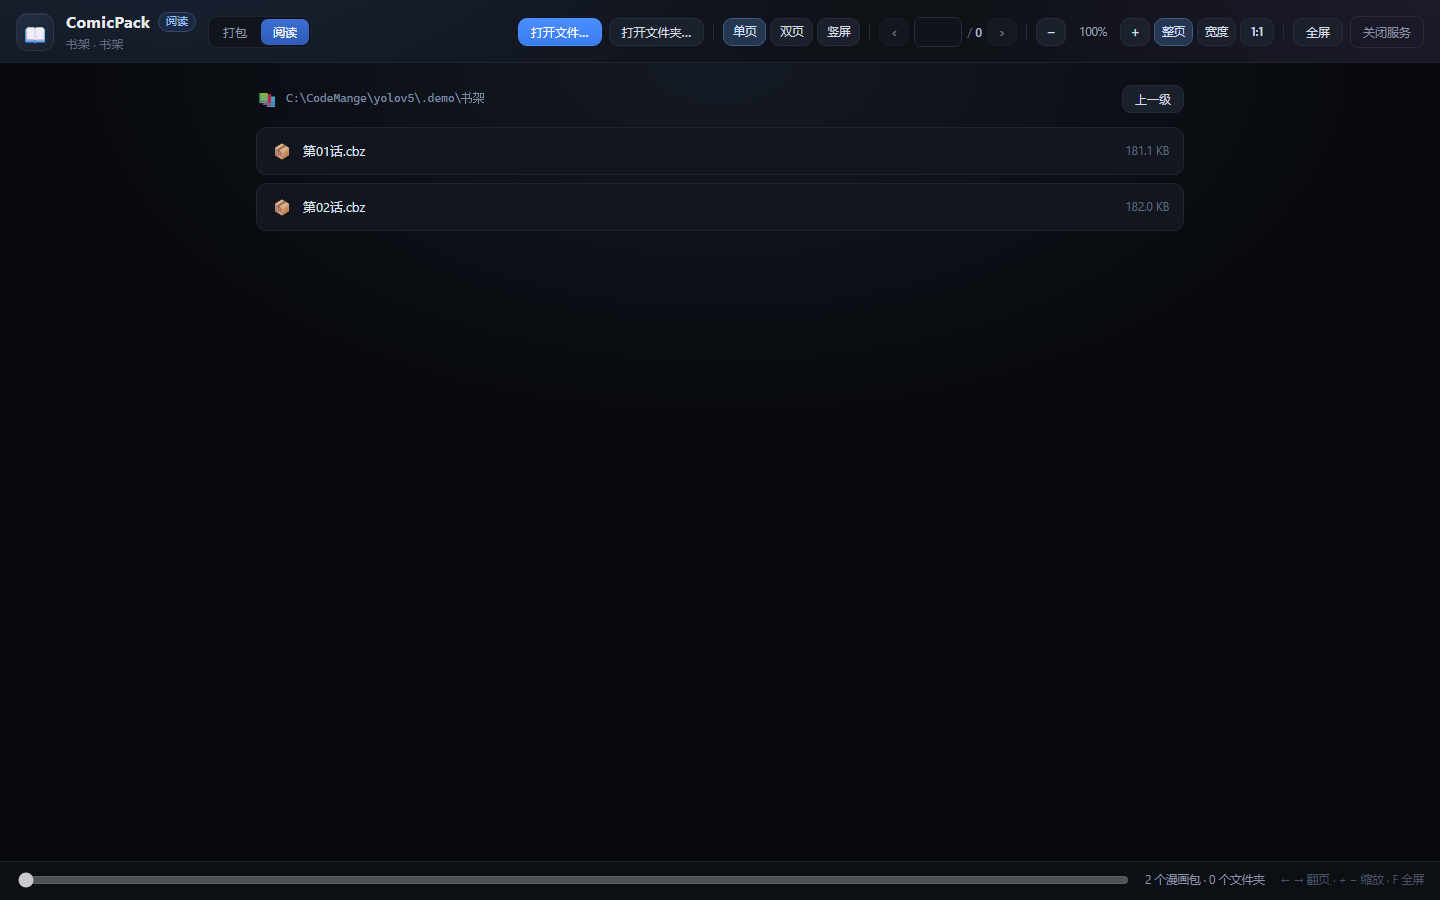
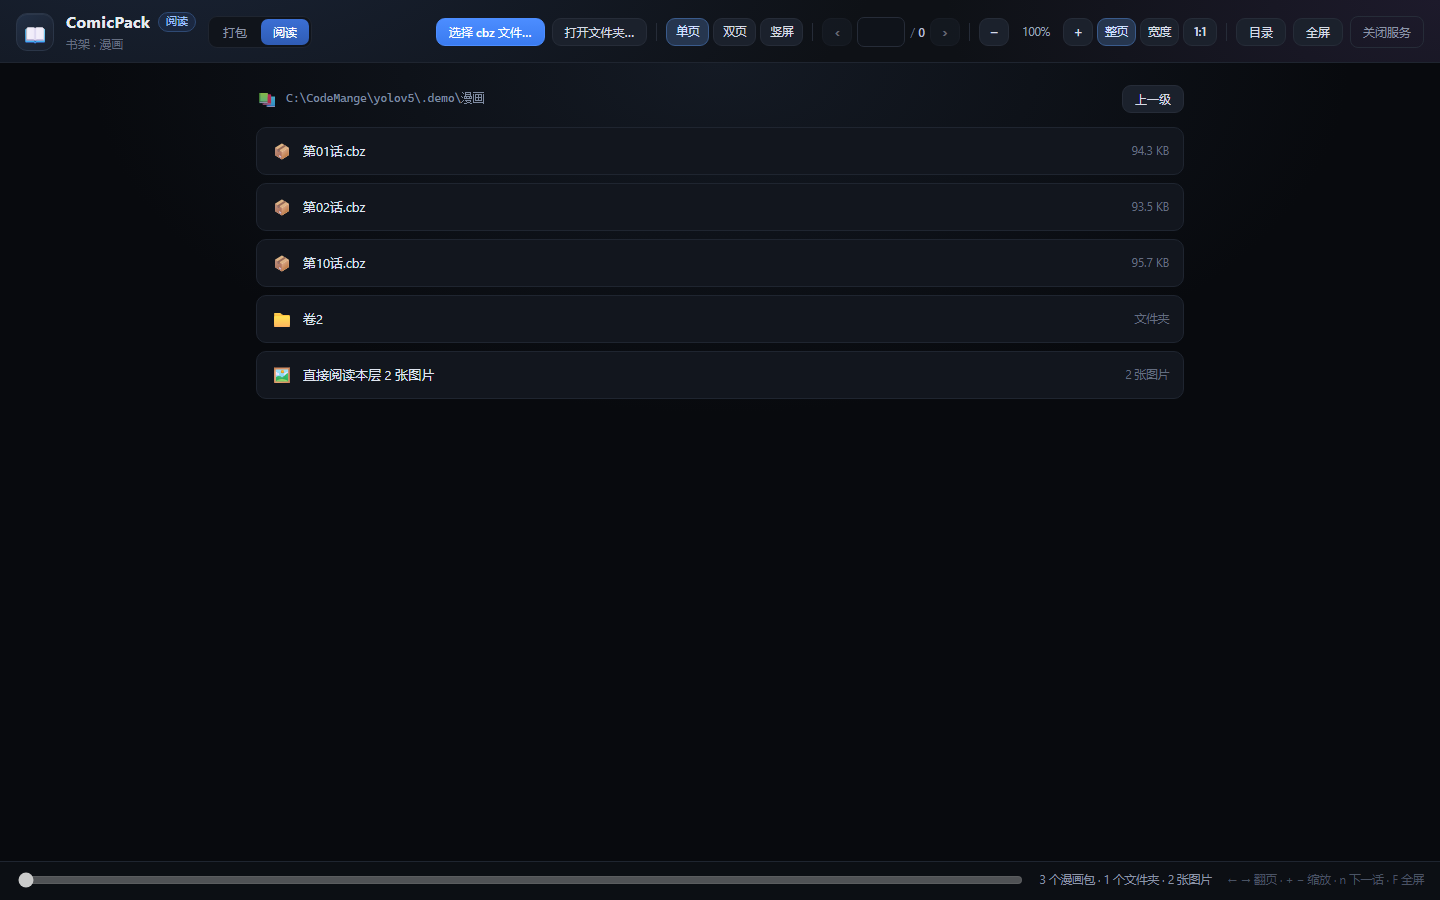
Rename the open button and list folders + cbz when opening a folder
- reader UI: the toolbar/empty-state button "打开文件…" is now "选择 cbz 文件…"
- opening a folder now lists its subfolders and CBZ/ZIP files (plus a "read the
  images in this folder" entry when loose images exist) instead of jumping
  into the first archive; a folder with a single archive still opens directly
- opening still returns sibling chapters, so the sidebar and 下一话 keep working
- tests: folder listing, mixed folder image entry, prefer_images

diff --git a/static/reader.js b/static/reader.js
@@ -83,10 +83,10 @@ async function openDialog(mode) {
   }
 }
 
-async function openPath(path) {
+async function openPath(path, preferImages) {
   setBusy(true, true);
   try {
-    const r = await post("/api/reader/open", { path });
+    const r = await post("/api/reader/open", { path, prefer_images: !!preferImages });
     if (!r.ok) throw new Error(r.error || "打开失败");
     if (r.kind === "library") {
       showLibrary(r);
@@ -169,7 +169,9 @@ function showLibrary(r) {
   $("#doc-count").classList.add("hidden");
   $("#page-total").textContent = "0";
   $("#page-input").value = "";
-  $("#page-meta").textContent = `${r.archive_count} 个漫画包 · ${r.folder_count} 个文件夹`;
+  let libMeta = `${r.archive_count} 个漫画包 · ${r.folder_count} 个文件夹`;
+  if (r.image_count) libMeta += ` · ${r.image_count} 张图片`;
+  $("#page-meta").textContent = libMeta;
   history.replaceState(null, "", "/reader?path=" + encodeURIComponent(r.path));
 
   $("#lib-path").textContent = r.path;
@@ -188,7 +190,7 @@ function showLibrary(r) {
     const li = document.createElement("li");
     const kind = document.createElement("span");
     kind.className = "lib-kind";
-    kind.textContent = item.kind === "archive" ? "📦" : "📁";
+    kind.textContent = item.kind === "archive" ? "📦" : (item.kind === "images" ? "🖼" : "📁");
 
     const name = document.createElement("span");
     name.className = "lib-name";
@@ -196,13 +198,13 @@ function showLibrary(r) {
 
     const meta = document.createElement("span");
     meta.className = "lib-meta";
-    meta.textContent = item.kind === "archive"
-      ? (item.bytes_text || humanSize(item.size))
-      : "文件夹";
+    if (item.kind === "archive") meta.textContent = item.bytes_text || humanSize(item.size);
+    else if (item.kind === "images") meta.textContent = `${item.count} 张图片`;
+    else meta.textContent = "文件夹";
 
     li.append(kind, name, meta);
     li.title = item.path;
-    li.addEventListener("click", () => openPath(item.path));
+    li.addEventListener("click", () => openPath(item.path, item.kind === "images"));
     list.appendChild(li);
   });
 }

diff --git a/static/reader.html b/static/reader.html
@@ -28,7 +28,7 @@
   </nav>
 
   <div class="tools">
-    <button id="btn-open" class="btn btn-primary btn-sm">打开文件…</button>
+    <button id="btn-open" class="btn btn-primary btn-sm">选择 cbz 文件…</button>
     <button id="btn-open-dir" class="btn btn-sm">打开文件夹…</button>
 
     <span class="sep"></span>
@@ -72,10 +72,10 @@
   <div id="empty" class="reader-empty">
     <div class="empty-icon">📖</div>
     <h2>打开一个漫画包开始阅读</h2>
-    <p>支持 <b>.cbz</b> / <b>.zip</b>（CBZ 就是改了扩展名的 zip），也可以直接打开一个图片文件夹——
-       文件夹里放的是漫画包的话，会列出这些包让你挑。</p>
+    <p>「选择 cbz 文件」直接打开一本；「打开文件夹」会列出里面的<b>子文件夹</b>和 <b>.cbz / .zip</b>，
+       点哪本读哪本，同一文件夹里的其它包会出现在右侧「目录」里，方便连续看下一话。</p>
     <div class="empty-actions">
-      <button id="btn-empty-open" class="btn btn-primary">打开文件…</button>
+      <button id="btn-empty-open" class="btn btn-primary">选择 cbz 文件…</button>
       <button id="btn-empty-dir" class="btn">打开文件夹…</button>
     </div>
     <p class="empty-hint">快捷键：← → 翻页 · + − 缩放 · 0 复位 · F 全屏 · O 打开</p>

diff --git a/tests/test_core.py b/tests/test_core.py
@@ -189,8 +189,8 @@ class ReaderTest(unittest.TestCase):
             self.assertEqual((data, ctype), (JPG, "image/jpeg"))
             reader.close(info["id"])
 
-    def test_folder_with_archives_opens_first_chapter(self):
-        """选一个装有多本 cbz 的文件夹：直接打开第一本，并把同目录的包作为章节返回。"""
+    def test_folder_with_archives_lists_them(self):
+        """选一个装有多本 cbz 的文件夹：列成书架，文件夹和包都在列表里。"""
         with workdir() as tmp:
             for name in ("第01话", "第02话", "第10话"):
                 src = os.path.join(tmp, name)
@@ -202,13 +202,14 @@ class ReaderTest(unittest.TestCase):
 
             info = reader.open_path(tmp)
             self.assertTrue(info["ok"], info)
-            self.assertEqual(info["kind"], "zip")
-            self.assertTrue(info["path"].endswith("第01话.cbz"), info["path"])
-            self.assertEqual(info["chapter_count"], 3)
-            self.assertEqual(info["chapter_index"], 0)
-            self.assertEqual([c["name"] for c in info["chapters"]],
-                             ["第01话.cbz", "第02话.cbz", "第10话.cbz"])
-            reader.close(info["id"])
+            self.assertEqual(info["kind"], "library")
+            self.assertEqual(info["archive_count"], 3)
+            self.assertEqual(info["folder_count"], 3)      # 打包后的源文件夹也在
+            self.assertEqual([i["name"] for i in info["items"]],
+                             ["第01话.cbz", "第02话.cbz", "第10话.cbz",
+                              "第01话", "第02话", "第10话"])
+            self.assertEqual([i["kind"] for i in info["items"]],
+                             ["archive", "archive", "archive", "folder", "folder", "folder"])
 
     def test_chapters_sorted_and_indexed(self):
         with workdir() as tmp:
@@ -227,6 +228,35 @@ class ReaderTest(unittest.TestCase):
                              ["第1话.cbz", "第2话.cbz", "第10话.cbz"])
             self.assertEqual(info["chapter_index"], 1)
             reader.close(info["id"])
+
+    def test_mixed_folder_lists_images_entry(self):
+        """文件夹里同时有散图和 cbz：列表里既有包，也有“直接读本层图片”的入口。"""
+        with workdir() as tmp:
+            with open(os.path.join(tmp, "1.jpg"), "wb") as fh:
+                fh.write(JPG)
+            with open(os.path.join(tmp, "2.jpg"), "wb") as fh:
+                fh.write(JPG)
+            src = os.path.join(tmp, "书")
+            os.makedirs(src)
+            with open(os.path.join(src, "1.jpg"), "wb") as fh:
+                fh.write(JPG)
+            packer.pack(src, ["cbz"])
+            shutil.rmtree(src)
+
+            info = reader.open_path(tmp)
+            self.assertTrue(info["ok"], info)
+            self.assertEqual(info["kind"], "library")
+            self.assertEqual(info["image_count"], 2)
+            kinds = [i["kind"] for i in info["items"]]
+            self.assertEqual(kinds, ["archive", "images"])
+            self.assertEqual(info["items"][1]["count"], 2)
+
+            # 走“直接读本层图片”入口
+            pics = reader.open_path(tmp, prefer_images=True)
+            self.assertTrue(pics["ok"], pics)
+            self.assertEqual(pics["kind"], "folder")
+            self.assertEqual(pics["page_count"], 2)
+            reader.close(pics["id"])
 
     def test_folder_with_single_archive_opens_it(self):
         with workdir() as tmp:
@@ -400,17 +430,20 @@ class HttpTest(unittest.TestCase):
             packer.pack(src, ["cbz"])
             shutil.rmtree(src)
 
-        # 选这个文件夹：直接打开第一本，并返回同目录所有章节
+        # 选这个文件夹：列出所有包（不再自动打开第一本）
         res = self.post("/api/reader/open", {"path": lib})
         self.assertTrue(res["ok"], res)
-        self.assertEqual(res["kind"], "zip")
-        self.assertEqual(res["chapter_count"], 2)
-        self.assertEqual(res["chapter_index"], 0)
-        self.assertEqual([c["name"] for c in res["chapters"]],
+        self.assertEqual(res["kind"], "library")
+        self.assertEqual([i["name"] for i in res["items"]],
                          ["第01话.cbz", "第02话.cbz"])
 
-        # 打开第二本：章节序号跟着变，便于“下一话”
-        nxt = self.post("/api/reader/open", {"path": res["chapters"][1]["path"]})
+        # 点开其中一本：返回同目录章节，序号用于“下一话”
+        first = self.post("/api/reader/open", {"path": res["items"][0]["path"]})
+        self.assertEqual(first["kind"], "zip")
+        self.assertEqual(first["chapter_count"], 2)
+        self.assertEqual(first["chapter_index"], 0)
+
+        nxt = self.post("/api/reader/open", {"path": res["items"][1]["path"]})
         self.assertEqual(nxt["chapter_index"], 1)
         self.assertEqual(nxt["page_count"], 1)
         reader.close(nxt["id"])

diff --git a/reader.py b/reader.py
@@ -176,8 +176,21 @@ def _drop(sid: str):
             pass
 
 
-def open_path(raw_path: str) -> dict:
-    """打开漫画包或图片文件夹，返回阅读会话信息。"""
+def _folder_session(path: str, images: list) -> dict:
+    """把「一层散图」当一本漫画读。"""
+    pages = [{"name": im["name"], "size": im["size"]} for im in images]
+    sid = _remember({"kind": "folder", "path": path,
+                     "name": os.path.basename(path) or path,
+                     "pages": pages, "folder": path, "zf": None})
+    return _public(sid, pages, path, "folder")
+
+
+def open_path(raw_path: str, prefer_images: bool = False) -> dict:
+    """打开漫画包或文件夹。
+
+    文件夹：列成书架（子文件夹 + 漫画包 + 可选的“本层图片”入口），
+    让用户自己挑；只有一层散图（或 prefer_images=True）时才直接读图。
+    """
     path = packer.normalize_path(raw_path)
     if not path:
         return {"ok": False, "error": "请选择一个 CBZ / ZIP 文件"}
@@ -187,32 +200,43 @@ def open_path(raw_path: str) -> dict:
         except ReaderError as exc:
             return {"ok": False, "error": str(exc)}
 
-        # 文件夹里有漫画包：直接打开第一本，同目录的其它包作为章节返回
-        if shelf["archives"]:
-            return open_path(shelf["archives"][0]["path"])
-
         info = packer.scan(path)
-        if not info.get("ok"):
-            return {"ok": False, "error": info.get("error") or "无法读取文件夹"}
-        if info["images"]:
-            pages = [{"name": im["name"], "size": im["size"]} for im in info["images"]]
-            sid = _remember({"kind": "folder", "path": path,
-                             "name": os.path.basename(path) or path,
-                             "pages": pages, "folder": path, "zf": None})
-            return _public(sid, pages, path, "folder")
+        images = info["images"] if info.get("ok") else []
 
-        # 只有子文件夹：列成书架继续往下找
-        if shelf["folders"]:
+        if prefer_images and images:
+            return _folder_session(path, images)
+
+        archives = shelf["archives"]
+        folders = shelf["folders"]
+
+        # 只有一个包、别的什么都没有：直接打开，省一次点击
+        if len(archives) == 1 and not folders and not images:
+            return open_path(archives[0]["path"])
+
+        items = list(archives) + list(folders)
+        if images and (archives or folders):
+            items.append({
+                "kind": "images",
+                "name": f"直接阅读本层 {len(images)} 张图片",
+                "path": path,
+                "count": len(images),
+            })
+
+        if items:
             return {
                 "ok": True,
                 "kind": "library",
                 "path": path,
                 "name": os.path.basename(path.rstrip("\\/")) or path,
                 "parent": os.path.dirname(path.rstrip("\\/")),
-                "items": shelf["folders"],
-                "archive_count": 0,
-                "folder_count": len(shelf["folders"]),
+                "items": items,
+                "archive_count": len(archives),
+                "folder_count": len(folders),
+                "image_count": len(images),
             }
+
+        if images:
+            return _folder_session(path, images)
         return {"ok": False, "error": "这个文件夹里没有图片，也没有 CBZ / ZIP 漫画包"}
 
     if not os.path.isfile(path):

diff --git a/app.py b/app.py
@@ -296,7 +296,8 @@ class Handler(BaseHTTPRequestHandler):
                     return self._json(ask_folder(data.get("initial") or ""))
                 return self._json(ask_file(data.get("initial") or ""))
             if path == "/api/reader/open":
-                return self._json(reader.open_path(data.get("path") or ""))
+                return self._json(reader.open_path(data.get("path") or "",
+                                                   bool(data.get("prefer_images"))))
             if path.startswith("/api/reader/close/"):
                 sid = path.rsplit("/", 1)[-1]
                 return self._json({"ok": reader.close(sid)})

diff --git a/README.md b/README.md
@@ -40,11 +40,13 @@
 
 ## 阅读
 
-点「打开文件…」选一个 `.cbz` / `.zip`；点「打开文件夹…」时：
+- 顶栏 **「选择 cbz 文件…」**：直接打开一本 `.cbz` / `.zip`
+- 顶栏 **「打开文件夹…」**：列出这个文件夹里的**子文件夹**、`cbz/zip` 文件，
+  有散图时还会多一行「直接阅读本层 N 张图片」——点哪本读哪本
 
-- 文件夹里有**漫画包** → 自动打开第一本，并把同目录所有 `.cbz` / `.zip` 排进右侧「目录」
-- 文件夹里只有**散图** → 直接当一本来读
-- 文件夹里只有**子文件夹** → 列成书架，点进去继续找
+![书架](docs/ui-library.png)
+
+文件夹里放的全是散图、没有子文件夹时，会直接当一本来读，不再多一次点击。
 
 ### 章节目录 / 连续阅读
 
@@ -75,8 +77,6 @@
 - 自动记住每个文件的阅读进度与上次用的模式（存在浏览器 localStorage 里）
 - 只读：阅读过程不会改动、解压或重新压缩原文件
 
-![书架](docs/ui-library.png)
-
 ## 项目结构
 
 ```
@@ -106,7 +106,7 @@ docs/           界面截图
 | POST | `/api/cancel/<id>` | 取消打包并删除半成品 |
 | POST | `/api/reveal` | 在资源管理器中定位生成的文件 |
 | POST | `/api/reader/browse` | 弹原生选文件 / 选目录框（`mode=file\|folder`） |
-| POST | `/api/reader/open` | 打开漫画包 / 图片文件夹；返回页清单，以及同目录章节（`chapters` / `chapter_index`）；只有子文件夹时返回 `kind: "library"` 书架 |
+| POST | `/api/reader/open` | 打开漫画包；或打开文件夹（`prefer_images=false` 返回 `kind: "library"` 书架：子文件夹 + 包 + 本层图片入口）；返回页清单与同目录章节（`chapters` / `chapter_index`） |
 | GET | `/api/reader/page/<sid>/<n>` | 取第 n 页图片（0 基） |
 | POST | `/api/reader/close/<sid>` | 关闭阅读会话 |
 | POST | `/api/shutdown` | 关闭服务 |
@@ -118,8 +118,8 @@ python -m unittest discover -s tests -v
 ```
 
 覆盖自然排序、零填充、打包产物结构、删除原图（含“只删图片不动其它文件”）、
-包内页顺序、文件夹阅读、章节列表与“选文件夹自动开第一本”、书架、坏包/空包、阅读会话上限，
-以及 HTTP 层的打开 / 取页 / 越界 404。
+包内页顺序、文件夹阅读、书架（子文件夹 / 包 / 本层图片入口）、章节列表与序号、
+坏包/空包、阅读会话上限，以及 HTTP 层的打开 / 取页 / 越界 404。
 
 ## 已知限制
 
